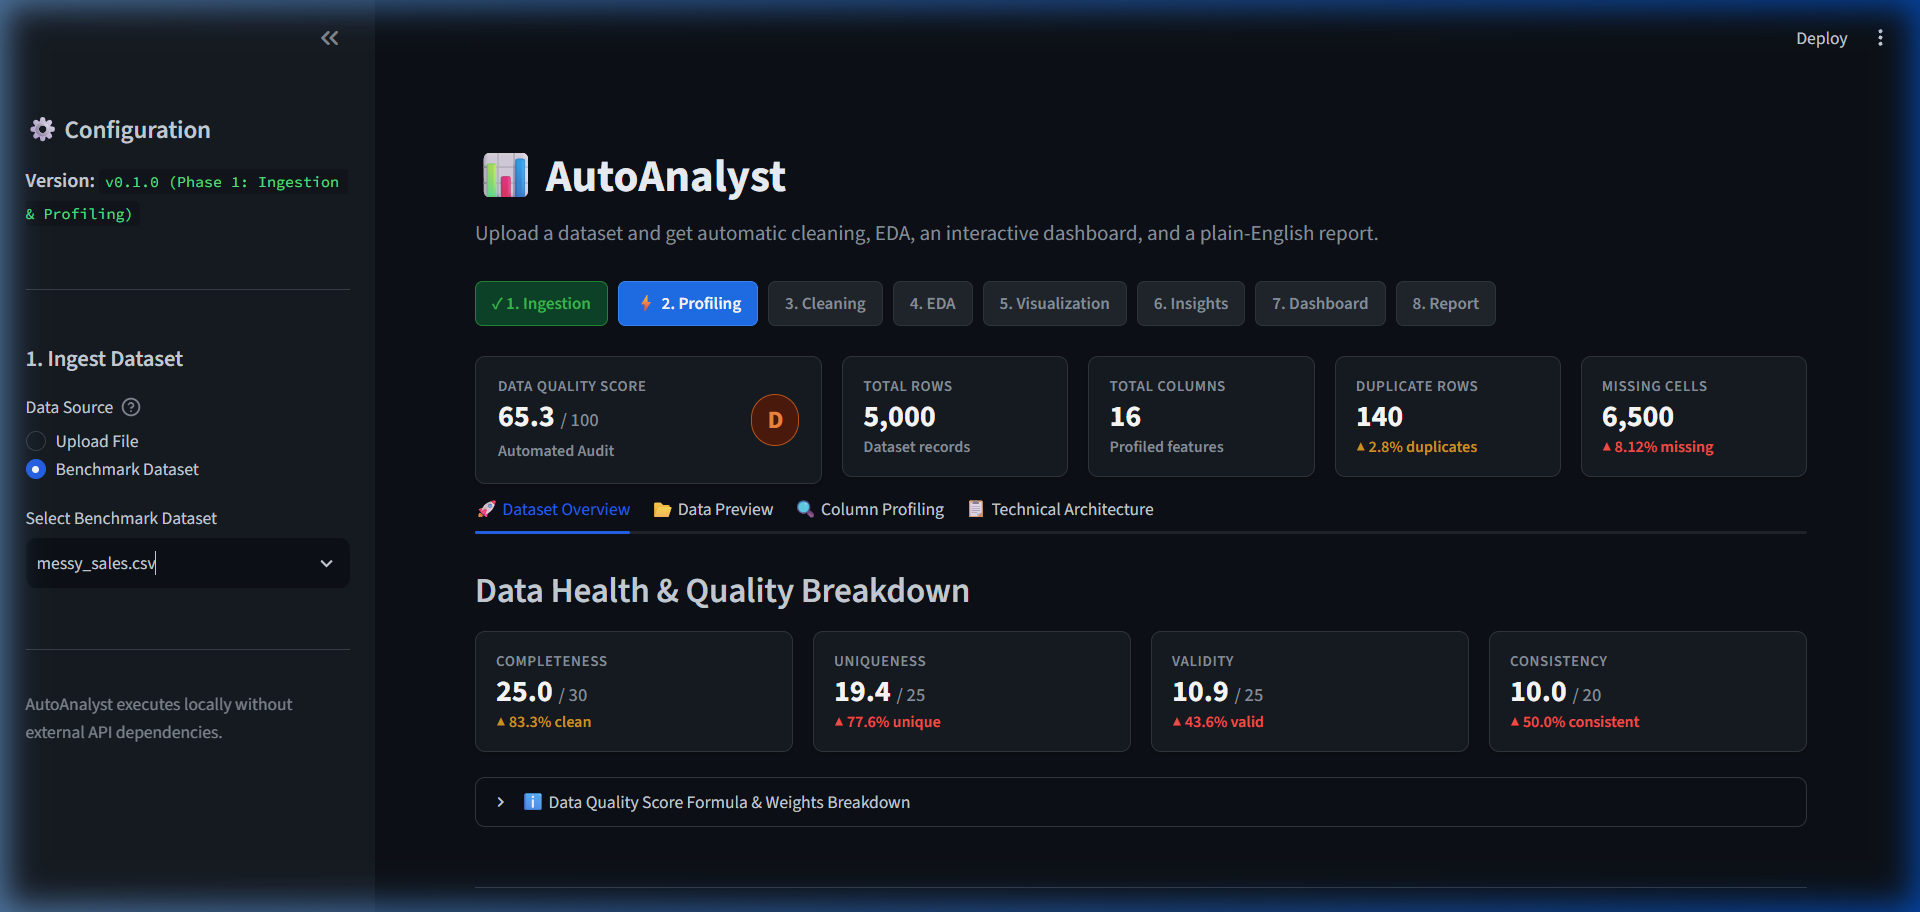
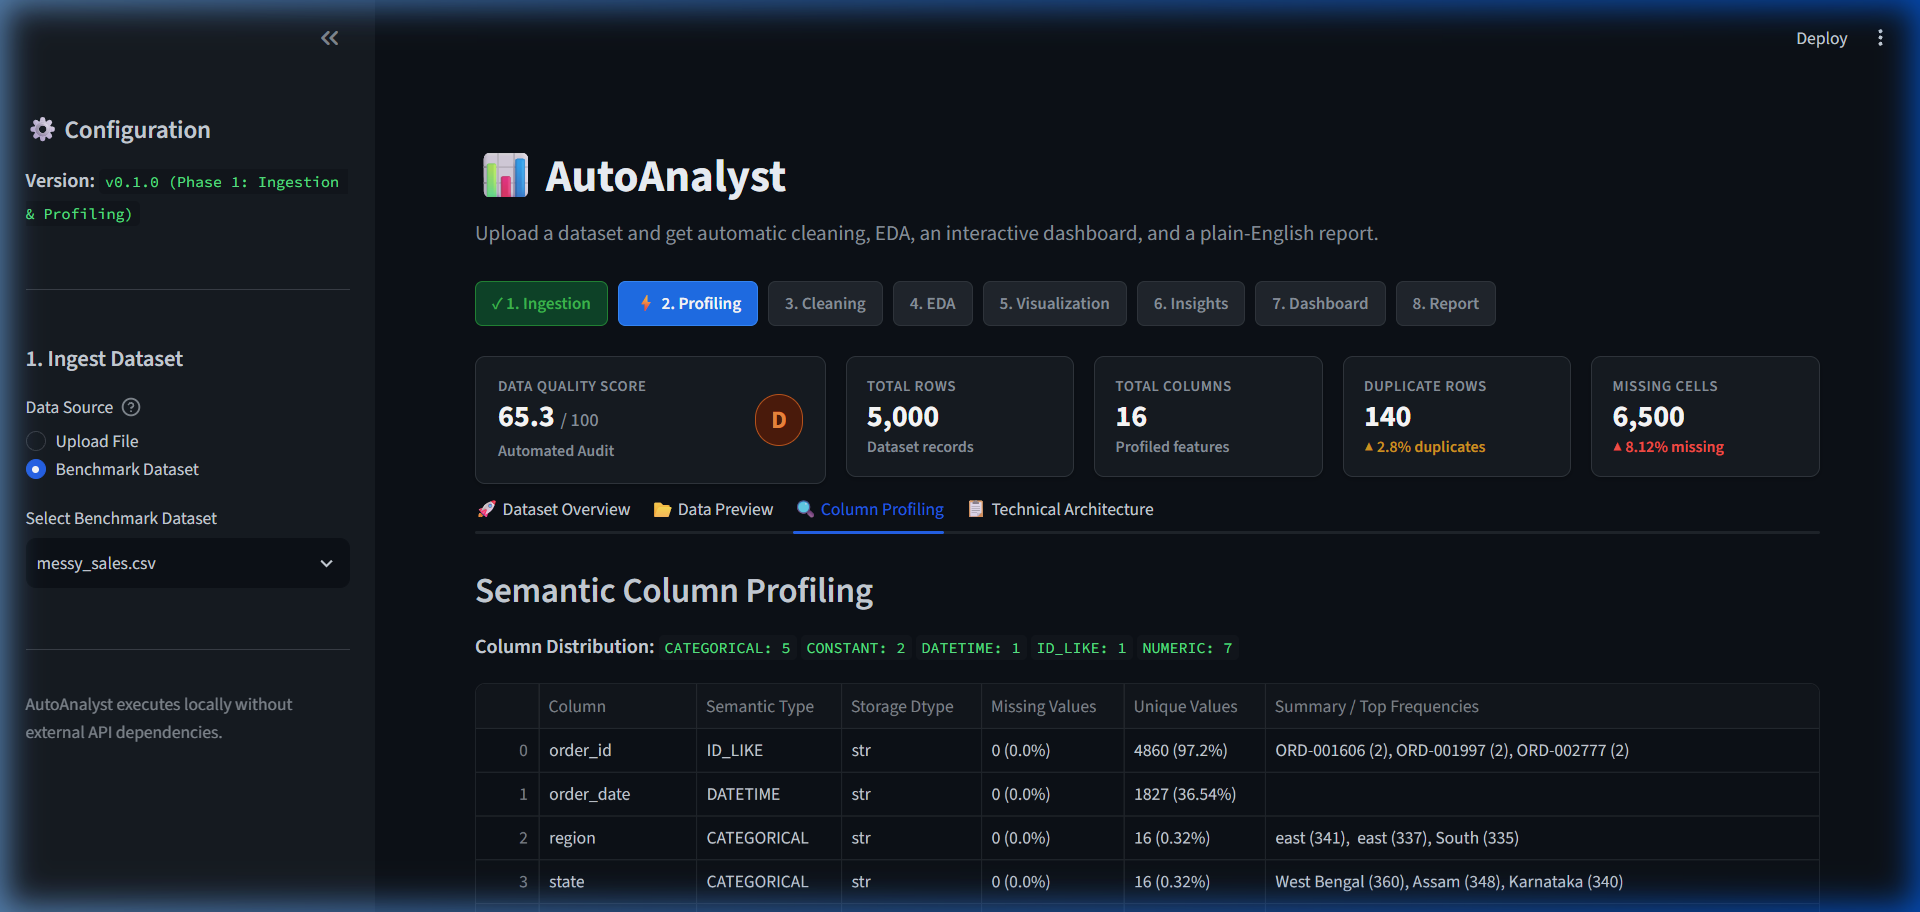
Add explicit threshold assertions and side-by-side benchmark shots

diff --git a/tests/test_profiling.py b/tests/test_profiling.py
@@ -76,6 +76,8 @@ def test_profile_messy_sales_anomalies_and_score() -> None:
     # Acceptance criterion: messy_sales shows a clearly lower quality score than clean_sales
     clean_score = clean_profile["quality_score"]["score"]
     messy_score = messy_profile["quality_score"]["score"]
+    assert clean_score >= 95.0, f"Clean score ({clean_score}) should be >= 95.0"
+    assert messy_score < 80.0, f"Messy score ({messy_score}) should be < 80.0"
     assert (
         messy_score < clean_score - 15.0
     ), f"Messy score ({messy_score}) should be substantially lower than clean score ({clean_score})"
